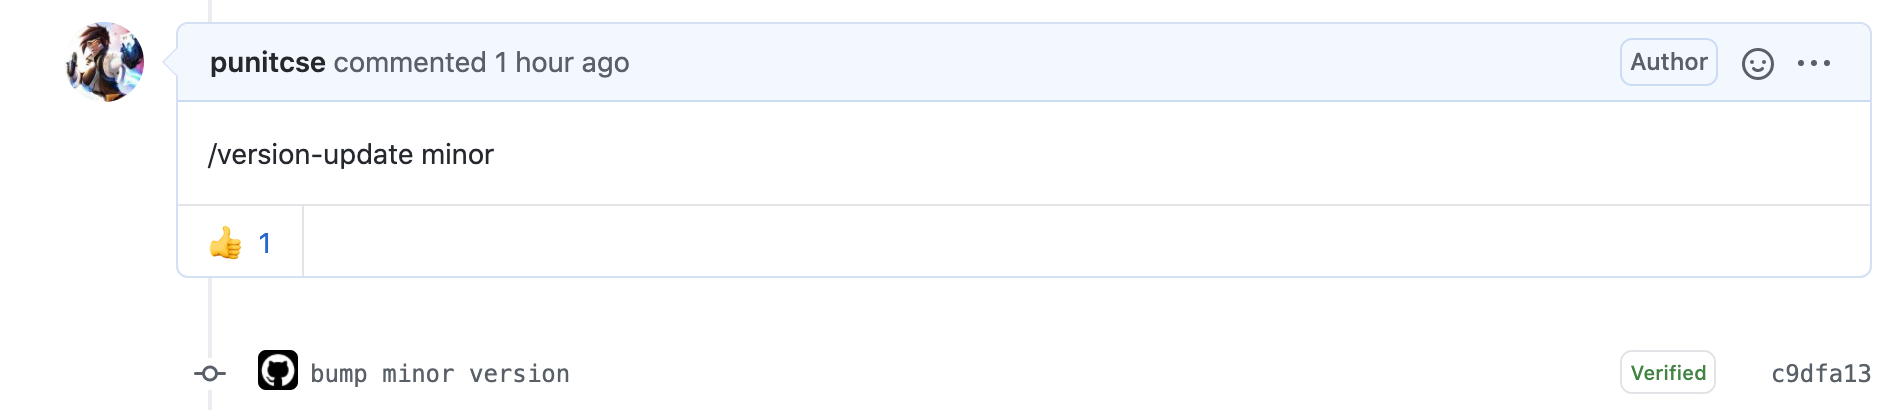
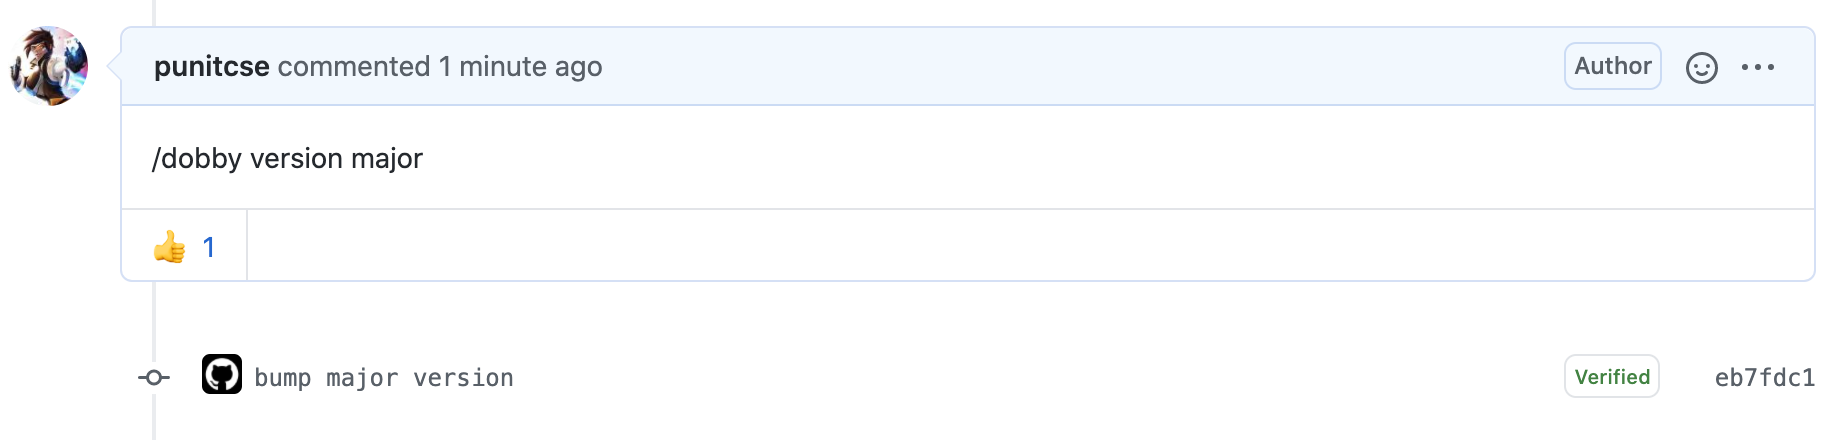
Use `/dobby` command

diff --git a/README.md b/README.md
@@ -16,7 +16,7 @@ on:
 jobs:
   pr_commented:
     runs-on: ubuntu-20.04
-    if: startsWith(github.event.comment.body, '/')
+    if: startsWith(github.event.comment.body, '/dobby')
     
     steps:
       # TODO: remove this step after the action is public
@@ -39,7 +39,7 @@ jobs:
 2. Add the following comment in the pull request to bump the version.
 
 ```
-/version-update <semver level>
+/dobby version <semver level>
 ```
 where semver level can be minor/major/patch.
 
